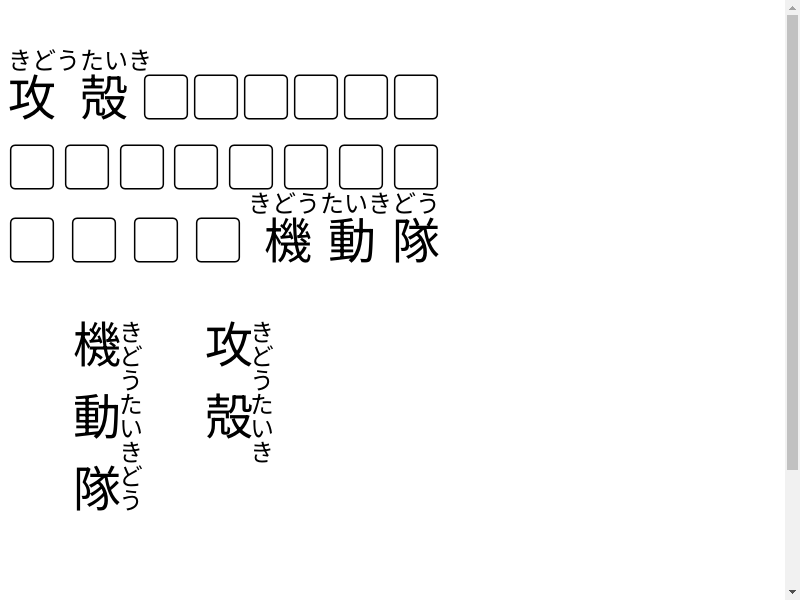
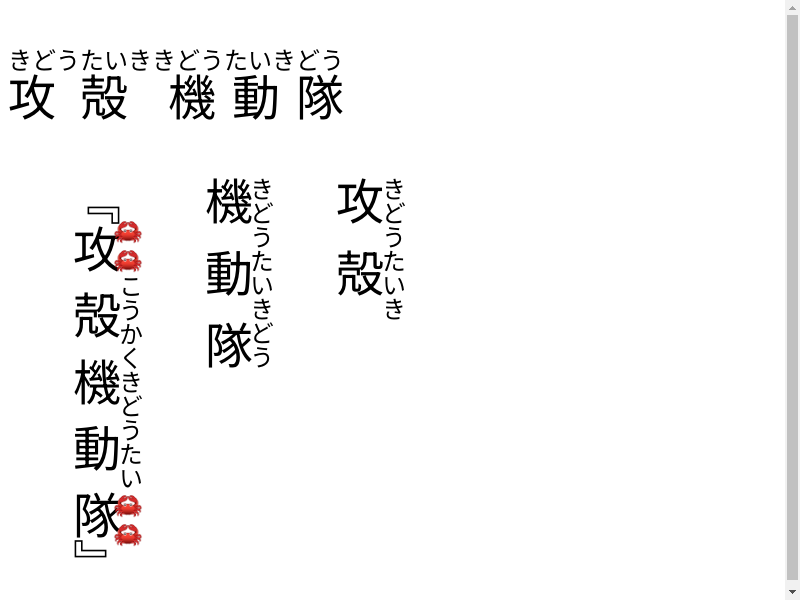
RubyLB: Justify a line consisting of a base-shorter ruby only
A base-shorter ruby is represented as an OBJECT REPLACEMENT CHARACTER
in ApplyJustification(). So ApplyJustification() can't justify a line
which consists of a base-shorter ruby only. We justify such a line by
ApplyRubyAlign().

* base-shorter-than-text.html
  Because text-align-justify.html covers justification behavior, this
  CL removes justification from base-shorter-than-text.html.

Bug: 324111880
Auto-Submit: Kent Tamura <tkent@chromium.org>
Commit-Queue: Koji Ishii <kojii@chromium.org>
Cr-Commit-Position: refs/heads/main@{#1310681}
NOKEYCHECK=True
GitOrigin-RevId: db6da6c412bfc04e3c48b174b1e2bc6c315dc7ba

diff --git a/blink/web_tests/fast/ruby/base-shorter-than-text.html b/blink/web_tests/fast/ruby/base-shorter-than-text.html
@@ -5,16 +5,16 @@
 ruby { font-family: HiraMinProN-W3;}
 p {
   font-size: 48px;
-  inline-size: 8.99em;
   word-break: break-all;
-  text-align: justify;
-  text-align-last: justify;
+}
+div p {
+  inline-size: auto;
 }
 </style>
 <p>
-<ruby>攻殻<rt>きどうたいき</rt></ruby>▢▢▢▢▢▢▢▢▢▢▢▢▢▢▢▢▢▢<ruby>機動隊<rt>きどうたいきどう</rt></ruby>
+<ruby>攻殻<rt>きどうたいき</rt></ruby><ruby>機動隊<rt>きどうたいきどう</rt></ruby>
 </p>
-<div style="-webkit-writing-mode: vertical-rl; height: 50%;">
+<div style="writing-mode: vertical-rl; height: 70%;">
 <p>
     <ruby>
         攻殻
@@ -22,5 +22,6 @@ p {
     </ruby>
 </p>
 <p><ruby>機動隊<rt>きどうたいきどう</rt></ruby></p>
+<p>『<ruby>攻殻機動隊<rt>🦀🦀こうかくきどうたい🦀🦀</rt></ruby>』</p>
 </div>
 </html>

diff --git a/blink/renderer/core/layout/inline/logical_line_builder.cc b/blink/renderer/core/layout/inline/logical_line_builder.cc
@@ -428,17 +428,30 @@ InlineBoxState* LogicalLineBuilder::PlaceRubyColumn(
   InlineItemResultRubyColumn& ruby_column = *item_result.ruby_column;
   bool on_start_edge = false;
   bool on_end_edge = false;
-  if (RuntimeEnabledFeatures::RubyLineEdgeAlignmentEnabled() &&
-      !node_.IsBidiEnabled()) {
+  if (!node_.IsBidiEnabled()) {
     on_start_edge = ruby_column.base_line.InflowStartOffset() ==
                     line_info.InflowStartOffset();
     wtf_size_t end_text_offset = ruby_column.base_line.EndTextOffset();
     wtf_size_t inflow_end = line_info.InflowEndOffsetWithoutForcedBreak();
     on_end_edge = end_text_offset == inflow_end;
   }
+  std::optional<LayoutUnit> line_available_size;
+  // If this is the only item in the line and is a base-shorter ruby and the
+  // line has text-align:justify, ApplyJustification() did nothing because this
+  // item is represented as an OBJECT REPLACEMENT CHARACTER. We expand the item
+  // by ruby-align processing.
+  if (on_start_edge && on_end_edge &&
+      line_info.TextAlign() == ETextAlign::kJustify &&
+      item_result.inline_size > ruby_column.base_line.Width()) {
+    line_available_size = line_info.AvailableWidth();
+  }
+  if (!RuntimeEnabledFeatures::RubyLineEdgeAlignmentEnabled()) {
+    on_start_edge = false;
+    on_end_edge = false;
+  }
   std::pair<LayoutUnit, LayoutUnit> base_insets =
-      ApplyRubyAlign(item_result.inline_size, on_start_edge, on_end_edge,
-                     ruby_column.base_line);
+      ApplyRubyAlign(line_available_size.value_or(item_result.inline_size),
+                     on_start_edge, on_end_edge, ruby_column.base_line);
 
   // Set up LogicalRubyColumns. This should be done before consuming the base
   // InlineItemResults because it might contain ruby columns, and annotation
@@ -477,8 +490,8 @@ InlineBoxState* LogicalLineBuilder::PlaceRubyColumn(
       logical_column.base_insets = base_insets;
     }
     logical_column.size = column_base_size;
-    PlaceRubyAnnotation(item_result, i, ruby_column.annotation_line_list[i],
-                        logical_column);
+    PlaceRubyAnnotation(item_result, line_available_size, i,
+                        ruby_column.annotation_line_list[i], logical_column);
   }
 
   return box;
@@ -486,12 +499,14 @@ InlineBoxState* LogicalLineBuilder::PlaceRubyColumn(
 
 void LogicalLineBuilder::PlaceRubyAnnotation(
     InlineItemResult& item_result,
+    std::optional<LayoutUnit> line_available_size,
     wtf_size_t index,
     LineInfo& annotation_line,
     LogicalRubyColumn& logical_column) {
   std::pair<LayoutUnit, LayoutUnit> insets =
-      ApplyRubyAlign(item_result.inline_size -
-                         item_result.ruby_column->last_base_glyph_spacing,
+      ApplyRubyAlign(line_available_size.value_or(
+                         item_result.inline_size -
+                         item_result.ruby_column->last_base_glyph_spacing),
                      /* on_start_edge */ false,
                      /* on_end_edge */ false, annotation_line);
 

diff --git a/blink/renderer/core/layout/inline/logical_line_builder.h b/blink/renderer/core/layout/inline/logical_line_builder.h
@@ -90,6 +90,7 @@ class LogicalLineBuilder {
                                   LogicalLineItems& line_box,
                                   InlineBoxState* box);
   void PlaceRubyAnnotation(InlineItemResult& item_result,
+                           std::optional<LayoutUnit> line_available_size,
                            wtf_size_t index,
                            LineInfo& annotation_line,
                            LogicalRubyColumn& logical_column);
